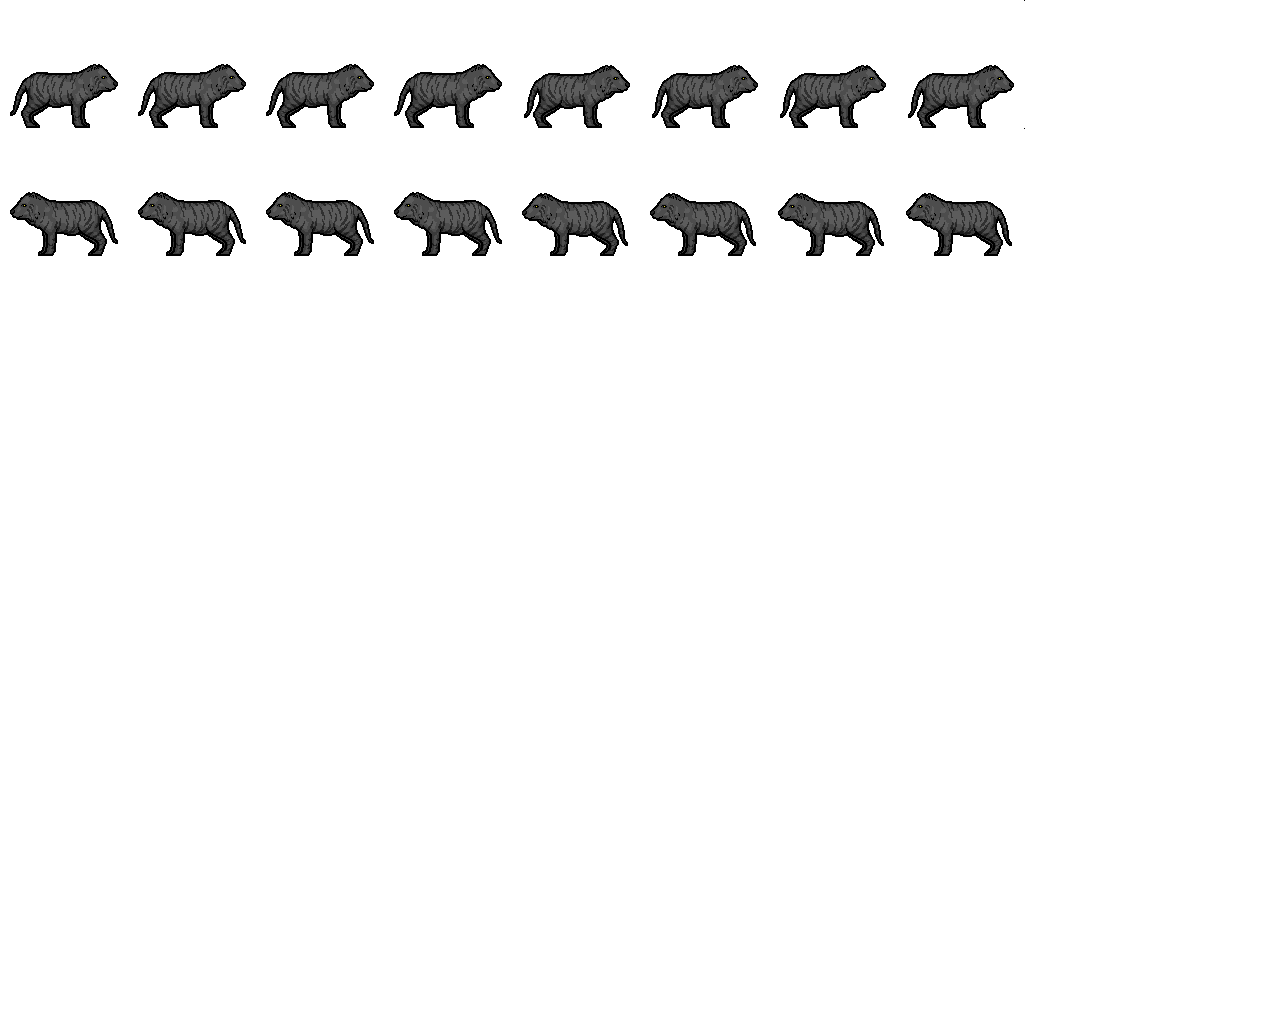
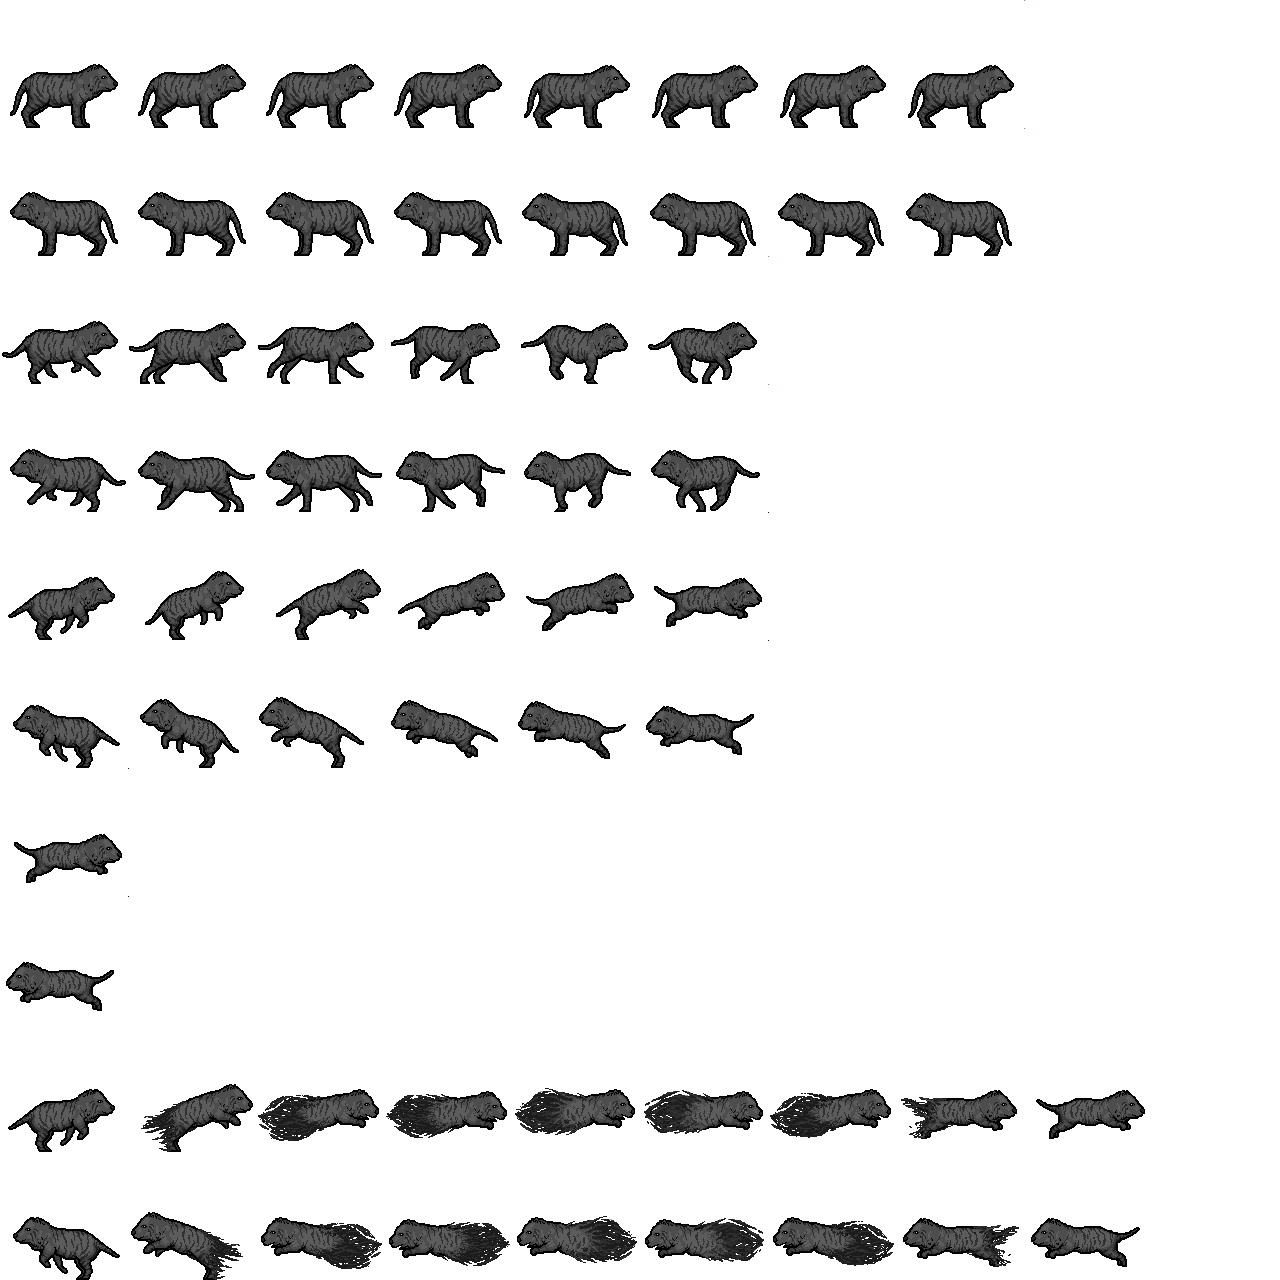
waljump

diff --git a/The Seekers Way 0.2/Sheeka.cpp b/The Seekers Way 0.2/Sheeka.cpp
@@ -10,11 +10,11 @@ const static float WIDTH	= 128;
 Sheeka::Sheeka(sf::Vector2f &position):
 	mDashPressed(false),
 	mDash(false),
-	mDashTimer(15),
-	mDashAcc(20),
+	mDashTimer(30),
+	mDashAcc(10),
 	mDashCount(0)
 	{
-		mAnimation.init("sheeka.PNG", 60, 7);
+		mAnimation.init("sheeka.PNG", 60, 8);
 		mHeight = HEIGHT;
 		mWidth = WIDTH;
 		mEntityKind = SHEEKA;
@@ -49,7 +49,7 @@ void Sheeka::update(EntityKind &currentEntity)
 void Sheeka::render()
 {
 	ImageManager::render(&getSprite());
-	mAnimation.update(/*mStatus * 2 +*/mDirLeft);
+	mAnimation.update(mStatus * 2 + mDirLeft);
 	mAnimation.setPosition(sf::Vector2f(mPosition.x -64, mPosition.y -96));
 }
 
@@ -62,6 +62,7 @@ void Sheeka::SheekaDash()
 {
 	if((sf::Keyboard::isKeyPressed(sf::Keyboard::Q) || sf::Keyboard::isKeyPressed(sf::Keyboard::Z)) && !mDash && !mDashPressed && mClock.getElapsedTime().asSeconds() >=2)
 	{
+		mStatus = ACTION1;
 		Sounds::getInstance()->Play("dash.wav");
 		mClock.restart();
 		mMovementSpeed.y = 0;
@@ -88,6 +89,7 @@ void Sheeka::SheekaDash()
 		mDashCount++;
 		if(mDashCount >= mDashTimer)
 		{
+			mStatus = IDLE;
 			mDash = false;
 			mDashCount = 0;
 			mMovementSpeed.y = 0;
@@ -96,3 +98,4 @@ void Sheeka::SheekaDash()
 		}
 	}
 }
+

diff --git a/The Seekers Way 0.2/Character.cpp b/The Seekers Way 0.2/Character.cpp
@@ -98,7 +98,7 @@ void Character::jump()
 		{
 			mStatus = JUMP;
 			mIsJumping = true;
-			mMovementSpeed.y -= mJump;
+			mMovementSpeed.y = -mJump;
 		}
 	}
 }
@@ -197,10 +197,10 @@ void Character::interact(Entity* e)
 				}
 			}
 		}
+	}
 		
-		if(e->getEntityKind() == Entity::ARROW)
-		{
+	if(e->getEntityKind() == Entity::ARROW)
+	{
 		
-		}
 	}
 }

diff --git a/The Seekers Way 0.2/Fenrir.h b/The Seekers Way 0.2/Fenrir.h
@@ -13,7 +13,19 @@ public:
 	void update(EntityKind &currentEntity);
 	void render();
 
+	void interact(Entity *e);
+
 	sf::Sprite getSprite();
+private:
+	enum JumpStatus {RIGHT, LEFT, GROUND};
+
+	void wallJump();
+	void isWallJumping();
+
+	bool mWallJumping;
+	JumpStatus mLastJumpDir;
+	int mWallJumpCount;
+	int mWallJumpTime;
 
 };
 
